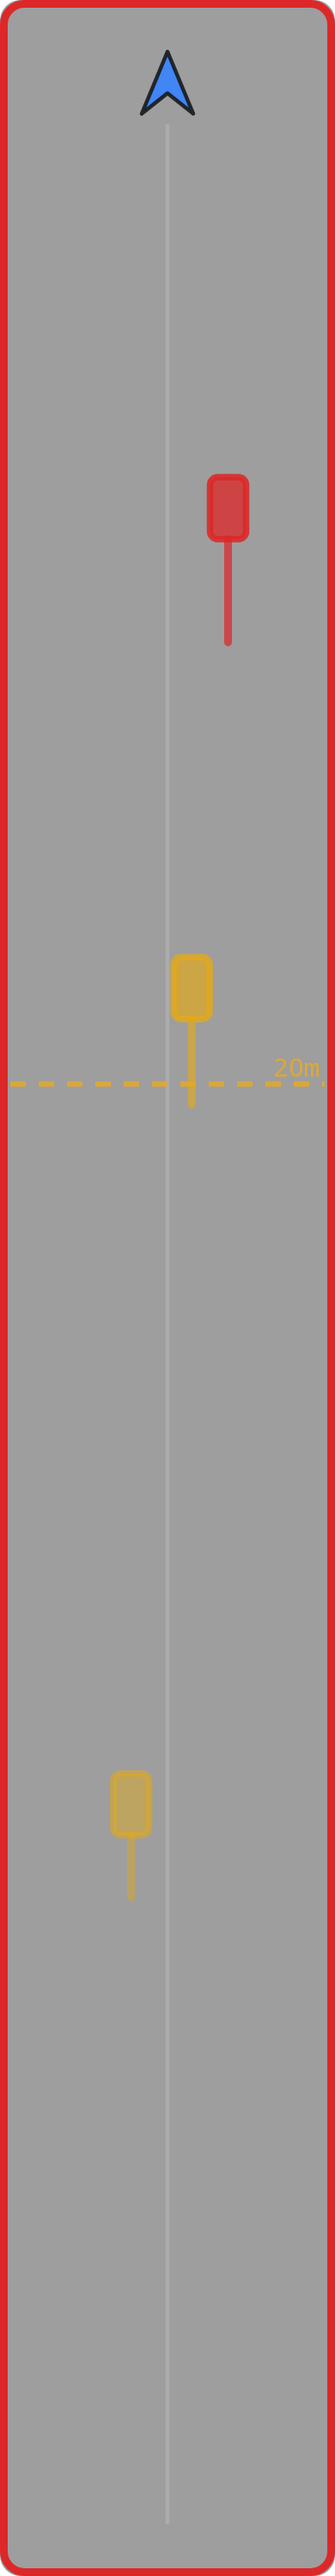
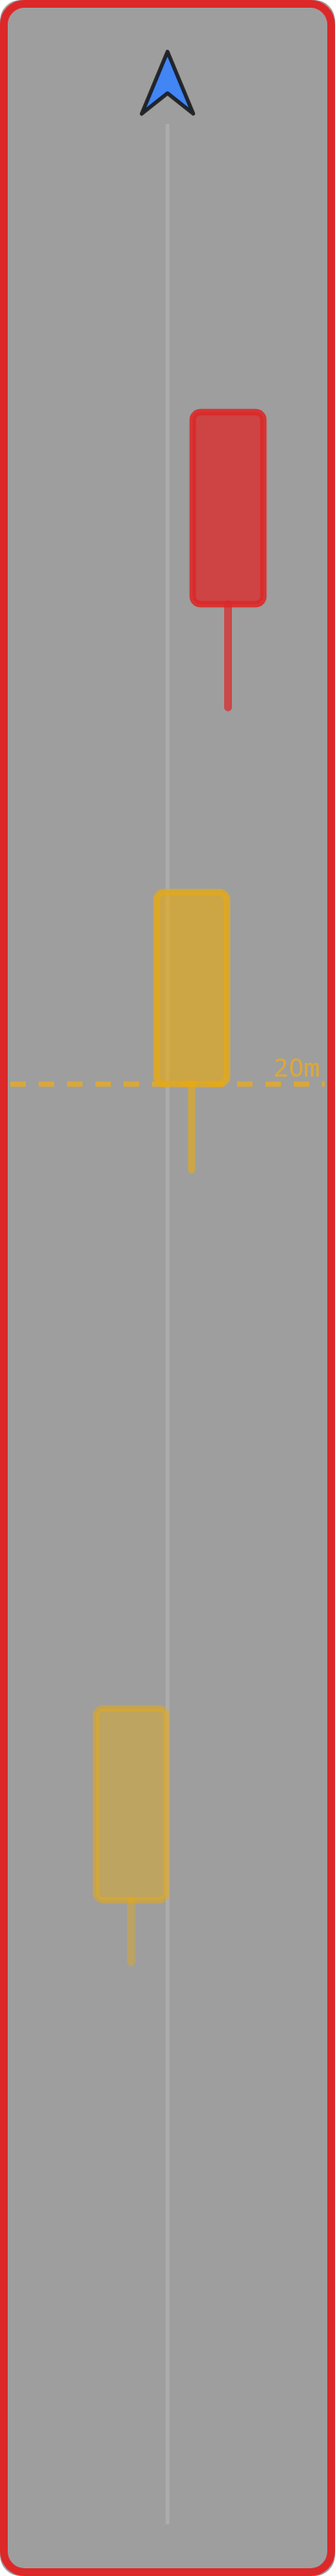
ui(overlay): draw each vehicle to scale, starting from its front
The overlay drew a small box centred on the distance the radar reports.
When a vehicle is sized, that distance jumps back by about half its
length, so at the default range its front was drawn over a metre further
away than a moment before. Each vehicle is now drawn at the size the
radar gives it, from its front, with nearer ones on top. One not sized
yet is drawn as a standard car from the reported distance.

Changed region(s): [[0.4308, 0.342, 0.7077, 0.4664], [0.5538, 0.1555, 0.8, 0.2798], [0.2769, 0.653, 0.5231, 0.7773]]

diff --git a/app/src/test/java/es/jjrh/bikeradar/RadarOverlayViewTest.kt b/app/src/test/java/es/jjrh/bikeradar/RadarOverlayViewTest.kt
@@ -208,9 +208,9 @@ class RadarOverlayViewTest {
             setState(
                 RadarState(
                     vehicles = listOf(
-                        Vehicle(id = 1, distanceM = 35, speedMs = -8f, lateralPos = -0.3f),
-                        Vehicle(id = 2, distanceM = 18, speedMs = -11f, lateralPos = 0.2f),
-                        Vehicle(id = 3, distanceM = 8, speedMs = -15f, lateralPos = 0.5f),
+                        Vehicle(id = 1, distanceM = 35, speedMs = -8f, lateralPos = -0.3f, templateLengthM = 4f, templateWidthM = 1.75f),
+                        Vehicle(id = 2, distanceM = 18, speedMs = -11f, lateralPos = 0.2f, templateLengthM = 4f, templateWidthM = 1.75f),
+                        Vehicle(id = 3, distanceM = 8, speedMs = -15f, lateralPos = 0.5f, templateLengthM = 4f, templateWidthM = 1.75f),
                     ),
                     source = DataSource.V2,
                     bikeSpeedMs = 5f,
@@ -228,7 +228,100 @@ class RadarOverlayViewTest {
                     vehicles = listOf(
                         Vehicle(id = 1, distanceM = 40, speedMs = -6f, size = VehicleSize.CAR),
                         Vehicle(id = 2, distanceM = 22, speedMs = -10f, size = VehicleSize.CAR),
-                        Vehicle(id = 3, distanceM = 12, speedMs = -14f, size = VehicleSize.TRUCK),
+                        Vehicle(id = 3, distanceM = 12, speedMs = -14f, size = VehicleSize.TRUCK, templateLengthM = 15f, templateWidthM = 2.25f),
+                    ),
+                    source = DataSource.V2,
+                    bikeSpeedMs = 5f,
+                ),
+            )
+        }.capture()
+    }
+
+    @Test
+    fun sizedTargetsAreDrawnToScaleFromTheirFront() {
+        // Locked tracks at 3, 15 and 48 m carry the car template and draw as
+        // 4 x 1.75 m boxes centred on their range; the TRUCK-class track at
+        // 40 m carries the car template too, as most of that class does, and
+        // draws car-sized; the long template at 32 m draws 15 m long; the 2 m
+        // template at 9 m draws short and narrow; the unlocked track at 22 m
+        // draws as a car running back from its range. Rider's 55 m window and
+        // 30 m alert line.
+        overlay().apply {
+            setVisualMaxM(55)
+            setAlertMaxM(30)
+            setState(
+                RadarState(
+                    vehicles = listOf(
+                        Vehicle(id = 1, distanceM = 3, speedMs = 0f, lateralPos = 0.3f, templateLengthM = 4f, templateWidthM = 1.75f),
+                        Vehicle(id = 6, distanceM = 9, speedMs = -2f, lateralPos = -0.6f, templateLengthM = 2f, templateWidthM = 1f),
+                        Vehicle(id = 2, distanceM = 15, speedMs = -4f, lateralPos = -0.2f, templateLengthM = 4f, templateWidthM = 1.75f),
+                        Vehicle(id = 3, distanceM = 22, speedMs = -6f, lateralPos = -0.4f),
+                        Vehicle(id = 4, distanceM = 32, speedMs = -7f, lateralPos = 0.7f, size = VehicleSize.TRUCK, templateLengthM = 15f, templateWidthM = 2.25f),
+                        Vehicle(id = 7, distanceM = 40, speedMs = -5f, lateralPos = -0.5f, size = VehicleSize.TRUCK, templateLengthM = 4f, templateWidthM = 1.75f),
+                        Vehicle(id = 5, distanceM = 48, speedMs = -8f, lateralPos = 0.2f, templateLengthM = 4f, templateWidthM = 1.75f),
+                    ),
+                    source = DataSource.V2,
+                    bikeSpeedMs = 5f,
+                ),
+            )
+        }.capture()
+    }
+
+    @Test
+    fun theNearerTargetIsDrawnOverALongerOneBehindIt() {
+        // Same lane: a car at 10 m (8-12 m) and a 15 m template at 17 m
+        // (9.5-24.5 m). The car's red box must sit on top of the truck's.
+        overlay().apply {
+            setVisualMaxM(55)
+            setState(
+                RadarState(
+                    vehicles = listOf(
+                        Vehicle(id = 1, distanceM = 10, speedMs = -15f, templateLengthM = 4f, templateWidthM = 1.75f),
+                        Vehicle(id = 2, distanceM = 17, speedMs = -2f, size = VehicleSize.TRUCK, templateLengthM = 15f, templateWidthM = 2.25f),
+                    ),
+                    source = DataSource.V2,
+                    bikeSpeedMs = 5f,
+                ),
+            )
+        }.capture()
+    }
+
+    @Test
+    fun underPrecogTheOrderFollowsTheDrawnRange() {
+        // Measured, the long template at 12 m is nearer than the car at 20 m.
+        // Predicted one second on, the car closing at 15 m/s draws at 3-7 m,
+        // inside the long box (4.5-19.5 m), so the car must be painted on top.
+        overlay().apply {
+            setVisualMaxM(55)
+            setPrecog(true)
+            setState(
+                RadarState(
+                    vehicles = listOf(
+                        Vehicle(id = 1, distanceM = 20, speedMs = -15f, templateLengthM = 4f, templateWidthM = 1.75f),
+                        Vehicle(id = 2, distanceM = 12, speedMs = 0f, size = VehicleSize.TRUCK, templateLengthM = 15f, templateWidthM = 2.25f),
+                    ),
+                    source = DataSource.V2,
+                    bikeSpeedMs = 5f,
+                ),
+            )
+        }.capture()
+    }
+
+    @Test
+    fun theSizeFloorsHoldWhereTheScaleWouldShrinkABox() {
+        // At an 80 m window a 2 x 1 m template on a TRUCK-class track draws
+        // smaller than the TRUCK floor on both axes; an unlocked track at 79 m
+        // has its far edge clamped at the strip's end, so the CAR height floor
+        // sets its box; and one at exactly 80 m would be pushed off the view
+        // by that floor, so the bottom cap holds it.
+        overlay().apply {
+            setVisualMaxM(80)
+            setState(
+                RadarState(
+                    vehicles = listOf(
+                        Vehicle(id = 1, distanceM = 50, speedMs = -4f, size = VehicleSize.TRUCK, templateLengthM = 2f, templateWidthM = 1f),
+                        Vehicle(id = 2, distanceM = 80, speedMs = -4f, lateralPos = -0.5f),
+                        Vehicle(id = 3, distanceM = 79, speedMs = -4f, lateralPos = 0.5f),
                     ),
                     source = DataSource.V2,
                     bikeSpeedMs = 5f,

diff --git a/app/src/main/java/es/jjrh/bikeradar/RadarOverlayView.kt b/app/src/main/java/es/jjrh/bikeradar/RadarOverlayView.kt
@@ -79,8 +79,9 @@ class RadarOverlayView(context: Context) : View(context) {
     }
 
     /** Dashed line showing where the user-configured alert max distance
-     *  sits against the full visualisation window. Anything above the line
-     *  (closer than alertMaxM) beeps; anything below is drawn but silent.
+     *  sits against the full visualisation window. A target whose range is
+     *  inside alertMaxM can beep; one further out is drawn but silent. A
+     *  sized box's front can cross the line before its range does.
      *  Dashed pattern signals "threshold, not boundary"; longer dashes +
      *  higher alpha than the original 1.5dp/150-alpha so it reads against
      *  a light app underneath at a glance. */
@@ -335,7 +336,10 @@ class RadarOverlayView(context: Context) : View(context) {
 
         val maxLateralPx = (trackX - dp(18f)).coerceAtLeast(dp(10f))
 
-        for (v in state.vehicles) {
+        // Farthest first by the range actually drawn (predicted under precog),
+        // so a nearer box is painted over a longer one behind it.
+        val drawn = state.vehicles.mapNotNull { v -> drawnRangeM(v)?.let { v to it } }.sortedByDescending { it.second }
+        for ((v, rangeYm) in drawn) {
             // Precog: render each vehicle at its predicted position one
             // PRECOG_LOOKAHEAD_S from now, extrapolated from the radar's
             // speedY + speedXMs fields. The visual jump from current to
@@ -343,7 +347,6 @@ class RadarOverlayView(context: Context) : View(context) {
             // swing a beat before it happens. Targets predicted to have
             // passed the rider drop out of the frame; they're about to
             // stop being useful to track.
-            val rangeYm = drawnRangeM(v) ?: continue
             val currentLateralM = v.lateralPos * RadarV2Decoder.LATERAL_FULL_M
             val lateralMeters = if (precog) {
                 currentLateralM + (v.speedXMs ?: 0) * PRECOG_LOOKAHEAD_S
@@ -351,9 +354,14 @@ class RadarOverlayView(context: Context) : View(context) {
                 currentLateralM
             }
 
-            val halfW = vehicleHalfWidth(v.size)
-            val halfH = vehicleHalfHeight(v.size)
-            val centreY = distToY(rangeYm, riderBottom, bottomY)
+            // Both axes to scale, each on its own axis's metres-per-pixel; the
+            // dp sizes are only floors so a box never shrinks below a glyph.
+            val halfW = maxOf(vehicleHalfWidth(v.size), boxWidthM(v.templateWidthM) / 2f * maxLateralPx / RadarV2Decoder.LATERAL_FULL_M)
+            val (nearM, farM) = boxSpanM(rangeYm, v.templateLengthM)
+            val nearY = distToY(nearM, riderBottom, bottomY)
+            val farY = distToY(farM, riderBottom, bottomY)
+                .coerceAtLeast(nearY + 2f * vehicleHalfHeight(v.size))
+                .coerceAtMost(h - dp(2f))
 
             // Edge-dock decision (incl. the renderer-side parked-car
             // fallback the decoder dwell gate can miss) is the pure,
@@ -377,7 +385,7 @@ class RadarOverlayView(context: Context) : View(context) {
                 // coloured box at the true X and the visual jump is the
                 // attention cue.
                 val edgeX = if (v.lateralPos >= 0f) trackX + maxLateralPx else trackX - maxLateralPx
-                tmpRect.set(edgeX - halfW, centreY - halfH, edgeX + halfW, centreY + halfH)
+                tmpRect.set(edgeX - halfW, nearY, edgeX + halfW, farY)
                 canvas.drawRoundRect(tmpRect, dp(3f), dp(3f), parkedOutlinePaint)
                 continue
             }
@@ -396,10 +404,10 @@ class RadarOverlayView(context: Context) : View(context) {
             val b = Color.blue(color)
 
             tailPaint.color = Color.argb((210 * distFactor).toInt(), r, g, b)
-            canvas.drawLine(centreX, centreY + halfH, centreX, centreY + halfH + tailLen, tailPaint)
+            canvas.drawLine(centreX, farY, centreX, farY + tailLen, tailPaint)
 
             boxFillPaint.color = Color.argb((220 * distFactor).toInt(), r, g, b)
-            tmpRect.set(centreX - halfW, centreY - halfH, centreX + halfW, centreY + halfH)
+            tmpRect.set(centreX - halfW, nearY, centreX + halfW, farY)
             canvas.drawRoundRect(tmpRect, dp(3f), dp(3f), boxFillPaint)
 
             boxStrokePaint.color = Color.argb((255 * distFactor).toInt(), r, g, b)
@@ -557,11 +565,9 @@ class RadarOverlayView(context: Context) : View(context) {
         canvas.drawPath(riderPath, riderStrokePaint)
     }
 
-    /** Box half-widths shrunk ~20 % from the original 4/9/14 dp values.
-     *  Two adjacent CAR boxes at the same range now leave headroom inside
-     *  the 130 dp panel instead of stacking visually; the smaller footprint
-     *  also leaves more of the app underneath showing through, which helps
-     *  orientation when the rider glances at the overlay during a turn. */
+    /** Minimum box half-sizes. The box is drawn to scale from the template
+     *  ([boxSpanM], [boxWidthM]); these floors bite only for a short template
+     *  at a long visual range, or a box clamped at the far end of the strip. */
     private fun vehicleHalfWidth(size: VehicleSize): Float = when (size) {
         VehicleSize.CAR -> dp(7f)
         VehicleSize.TRUCK -> dp(11f)

diff --git a/app/src/main/java/es/jjrh/bikeradar/RadarThreatRender.kt b/app/src/main/java/es/jjrh/bikeradar/RadarThreatRender.kt
@@ -117,6 +117,35 @@ internal fun threatLevelFromRange(distanceM: Int, visualMaxM: Int): ThreatLevel 
 internal fun distToYFraction(dist: Float, visualMaxM: Int): Float = dist.coerceIn(0f, visualMaxM.toFloat()) / visualMaxM
 
 /**
+ * Near and far edges, in metres behind the rider, of the box the strip draws
+ * for a target at [rangeM] carrying [templateLengthM].
+ *
+ * Before the size lock (length 0) the range is taken as the near edge and the
+ * box runs back one car template. Once locked, the box spans the template
+ * centred on the range. That is meant to leave the near edge in place when
+ * the size locks: bike-radar-docs PROTOCOL.md measures the lock-frame step at
+ * about half the template (median 1.9 m for the 4 m car template), so the near
+ * edge moves only by the gap between that step and half the template. The
+ * view enforces a minimum box size in dp on top of this.
+ */
+internal fun boxSpanM(rangeM: Float, templateLengthM: Float): Pair<Float, Float> {
+    if (templateLengthM <= 0f) return rangeM to rangeM + PRE_LOCK_TEMPLATE_LENGTH_M
+    val half = templateLengthM / 2f
+    return (rangeM - half).coerceAtLeast(0f) to rangeM + half
+}
+
+/** Width in metres of the box drawn for a target: its template width, or the
+ *  car template's until the size fields lock. Capped at the strip's full
+ *  lateral span, so no template byte can paint a box wider than the panel. */
+internal fun boxWidthM(templateWidthM: Float): Float = (if (templateWidthM > 0f) templateWidthM else PRE_LOCK_TEMPLATE_WIDTH_M)
+    .coerceAtMost(2f * RadarV2Decoder.LATERAL_FULL_M)
+
+/** Size drawn for a track whose size fields have not locked yet: the car
+ *  template, which most tracks lock to (bike-radar-docs PROTOCOL.md). */
+internal const val PRE_LOCK_TEMPLATE_LENGTH_M = 4f
+internal const val PRE_LOCK_TEMPLATE_WIDTH_M = 1.75f
+
+/**
  * Close targets render near-solid; far targets fade to ~30% so the rider's eye
  * lands on immediate threats first. Linear in distance - cheap, predictable,
  * easy to re-tune after a ride.

diff --git a/app/src/test/java/es/jjrh/bikeradar/BoxSpanTest.kt b/app/src/test/java/es/jjrh/bikeradar/BoxSpanTest.kt
@@ -1,0 +1,60 @@
+// SPDX-License-Identifier: GPL-3.0-or-later
+// Copyright (C) 2026 JJ del Rio
+package es.jjrh.bikeradar
+
+import org.junit.Assert.assertEquals
+import org.junit.Test
+
+/** Where the strip draws a target's box, in metres behind the rider. */
+class BoxSpanTest {
+
+    @Test
+    fun aLockedCarSpansItsTemplateCentredOnTheRange() {
+        assertEquals(8f to 12f, boxSpanM(10f, 4f))
+    }
+
+    @Test
+    fun anUnlockedTrackStartsAtItsRangeAndRunsBackOneCar() {
+        assertEquals(8f to 12f, boxSpanM(8f, 0f))
+    }
+
+    @Test
+    fun theNearEdgeHoldsStillForALockStepOfHalfTheTemplate() {
+        // bike-radar-docs PROTOCOL.md: on the lock frame rangeY steps back by
+        // about half the template. Pre-lock 8 m, post-lock 10 m, 4 m template.
+        val before = boxSpanM(8f, 0f).first
+        val after = boxSpanM(10f, 4f).first
+        assertEquals(before, after, 0f)
+    }
+
+    @Test
+    fun theNearEdgeNeverPassesTheRider() {
+        assertEquals(0f to 3f, boxSpanM(1f, 4f))
+    }
+
+    @Test
+    fun theLongTemplateIsDrawnAtItsOwnLength() {
+        assertEquals(12.5f to 27.5f, boxSpanM(20f, 15f))
+    }
+
+    @Test
+    fun theShortTemplateIsDrawnAtItsOwnLength() {
+        assertEquals(4f to 6f, boxSpanM(5f, 2f))
+    }
+
+    @Test
+    fun aLockedWidthIsUsedAsIs() {
+        assertEquals(2.25f, boxWidthM(2.25f), 0f)
+    }
+
+    @Test
+    fun anUnlockedWidthIsTheCarTemplate() {
+        assertEquals(1.75f, boxWidthM(0f), 0f)
+    }
+
+    @Test
+    fun aWidthWiderThanTheStripIsCappedAtTheStrip() {
+        // 0xFF in the width byte decodes to 63.75 m; the strip spans 6 m.
+        assertEquals(6f, boxWidthM(63.75f), 0f)
+    }
+}

diff --git a/PROTOCOL.md b/PROTOCOL.md
@@ -164,7 +164,9 @@ Bytes [5] and [6] usually read 0 for a new track's first frames, then take a
 class template, most often 4.00 x 1.75 m. On the frame they lock, `rangeY` steps
 further back by about half the template length (canonical spec, "`rangeY`
 steps when the size fields lock"). The decoder carries both onto `Vehicle` as
-`templateLengthM` / `templateWidthM`, 0 until locked.
+`templateLengthM` / `templateWidthM`, 0 until locked. The overlay draws a
+locked target's box centred on `rangeY`, so its near edge sits half a
+template closer (`boxSpanM`); the alert path still reads `rangeY`.
 
 ### Speed
 
